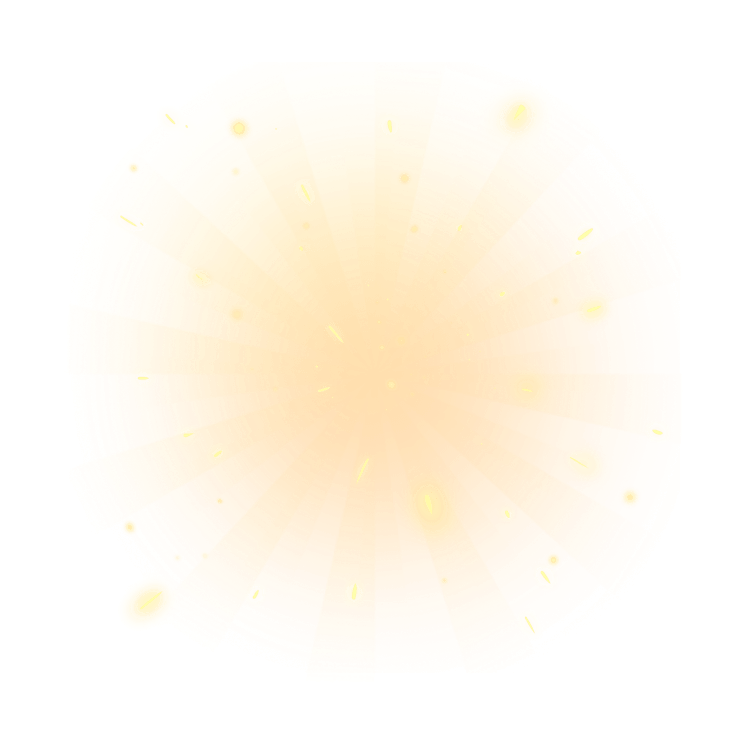
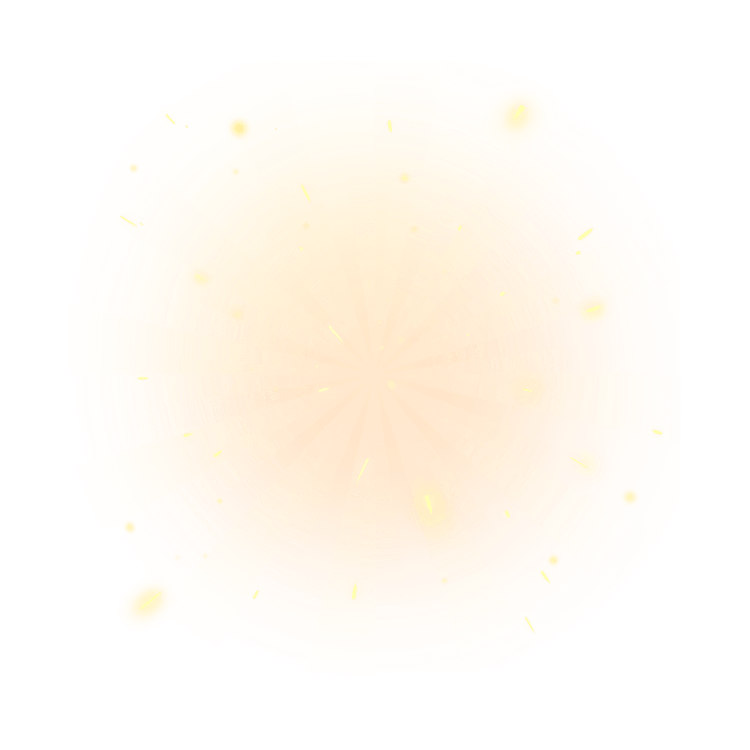
no message

Changed region(s): [[0.368, 0.368, 0.644, 0.6133], [0.46, 0.6133, 0.4907, 0.644]]

diff --git a/src/pages/product/dongle.vue b/src/pages/product/dongle.vue
@@ -183,8 +183,8 @@
         </div>
         <div class="recordBtn" @click="getRewardHistory"></div>
         <!-- 过场动画 , { opacity: !cartoonShow } -->
-        <u-popup :show="inAdvance" :overlay="cartoonShow" :safeAreaInsetBottom="false" bgColor="transparent">
-            <div v-if="inAdvance" :class="['cartoon_con',,((isRun && spList[WinnInx].levelIndex == 28 ) ) && percentage > 90?'big':'']">
+        <u-popup mode="center" :show="inAdvance" :overlay="cartoonShow" :safeAreaInsetBottom="false" bgColor="transparent">
+            <div v-if="inAdvance" :class="['cartoon_con',( spList.length>0 && (isRun && spList[WinnInx].levelIndex == 28 ) ) && percentage > 90?'big':'']">
                 <div class="svga_it">
                     <c-svga ref="cSvgaRef" :src="cartoonsrc" :loops="1" :autoPlay="false" :isOnChange="true"
                         @finished="onFinished" @percentage="onPercentage" @loaded="onLoaded" width="100%"
@@ -202,7 +202,7 @@
                     </div>
                   
                 </div> -->
-              <view v-if="(percentage > 90 && isRun && spList[WinnInx].levelIndex == 28 ) " class="gx"></view>
+              <!-- <view v-if="(percentage > 90 && isRun && spList[WinnInx].levelIndex == 28 ) " class="gx"></view>
                 <view  class="awards_box" v-if="percentage > 90 && isRun">
                    <view  v-if="(spList[WinnInx].levelIndex == 28) "  class="guang"></view>
                     <view v-if="(spList[WinnInx].levelIndex == 28) " class="title">
@@ -228,7 +228,6 @@
                   <view class="c_btn flex_r flex_jse flex_ac" v-if="percentage > 95">
                     <view class="c_btn_item" @click="toDetails" v-if="WinnNum > 0"></view>
                     <view class="c_btn_item cor9" @click="next">
-                        <!-- <span>继续</span> -->
                         <view class="r_num flex_r" v-if="WinnNum > 0">
                              <view>
                                 <img src="https://img.shinemang.com/gachaStatic/newNdj/qiu.png" class="ico1" />
@@ -238,7 +237,7 @@
                     </view>
                 </view>
                  <view class="msg" v-if="percentage > 95">{{ hint }}</view>
-                </view>
+                </view> -->
                 <!-- <div class="c_btn flex_r flex_jse flex_ac" v-if="percentage > 95">
                     <div class="c_btn_item" @click="toDetails" v-if="WinnNum > 0">
                         跳过动画
@@ -254,7 +253,7 @@
             </div>
         </u-popup>
         <!-- 炸弹 -->
-        <u-popup :show="showDh" :overlay="cartoonShowDh" :safeAreaInsetBottom="false" bgColor="transparent">
+        <u-popup mode="center" :show="showDh" :overlay="cartoonShowDh" :safeAreaInsetBottom="false" bgColor="transparent">
             <div v-if="showDh" :class="['cartoon_con']">
                 <div class="svga_it">
                     <c-svga ref="cSvgaRef" :src="cartoonsrc2" :loops="1" :autoPlay="false" :isOnChange="true"
@@ -381,9 +380,9 @@ export default {
             showDiscounts: false,
             shareType: 0,
             probabilityShow: [],
-            cartoonsrc: "https://img.shinemang.com/gachaStatic/static/img/cartoon/ddl.svga",
+            cartoonsrc: "https://img.shinemang.com/gachaStatic/svga/ddl.svga",
             newFilePath: "",
-            cartoonsrc2: "https://img.shinemang.com/gachaStatic/static/img/cartoon/bomb.svga",
+            cartoonsrc2: "https://img.shinemang.com/gachaStatic/svga/bomb.svga",
             newGifPath: "", //Gif动画资源地址
             showDh: false,
             cartoonShowDh: false,
@@ -456,9 +455,15 @@ this.shareTo=false
           this.cartoonShow = false
           this.inAdvance = false;
           this.percentage = 0;
+          this.spList = [];
           this.Winning = [];
           this.WinnInx = 0;
-          this.isRun = true
+          this.isRun = true;
+          this.showDh =false;
+          this.entrance = false
+          this.gachaBombRecord={}
+          
+          
          
         },
         onClickResult(){
@@ -636,22 +641,23 @@ this.shareTo=false
             } else {
                 a = this.verdictBig(showAnim ? this.Winning : [this.Winning[0]]) ? 2 : 1;
             }
+
+            console.log(this.spList.length,showAnim,'阿是两节课弗利萨记录')
             if (!this.spList.length && showAnim) {
 
                 uni.hideLoading();
-                this.inAdvance = false
-             
-                                
                this.$refs.result.open(this.Winning, true, this.gachaId, this.boxindex)
                 // uni.$u.route({
                 //     type: "redirect",
                 //     url: "/pages/product/rewardResultDetails",
                 // });
             } else {
-                this.sound = a
+                this.sound = 'https://img.shinemang.com/gachaStatic/svga/ddl.wav'
+             
                 this.showDh = false
                 this.cartoonShowDh = false;
-                this.inAdvance = true;
+                  this.inAdvance = true;
+               playDede(0,this.sound);
                 setTimeout(() => {
                     this.cartoonShow = true;
                     uni.hideLoading();
@@ -806,7 +812,7 @@ this.shareTo=false
             }
             // console.log(va, "动画加载完成，播放时回调2");
             if (this.percentage > 80 && this.percentage < 86) {
-                playDede(this.sound);
+              
             }
         },
         onPercentage1(va) {
@@ -817,9 +823,10 @@ this.shareTo=false
                     uni.vibrateLong();
                 }
             });
-            playDede(0, 'https://img.shinemang.com/gachaStatic/static/media/bomb.wav')
+            playDede(0, 'https://img.shinemang.com/gachaStatic/svga/bomb.wav')
         },
         onFinished() {
+             this.toDetails();
             // console.log("动画停止播放时回调");
         },
         onFinished1() {
@@ -837,7 +844,7 @@ this.shareTo=false
                 if (this.WinnInx < this.spList.length && this.spList.length > 0) {
                     let a = this.verdictBig([this.spList[this.WinnInx]]) ? 2 : 1;
                     if(a == 2){
-                     playDede(0,'https://img.shinemang.com/gachaStatic/newNdj/ndj_b1.wav');
+                    //  playDede(0,'https://img.shinemang.com/gachaStatic/newNdj/ndj_b1.wav');
                     }
                 }
                 this.isRun = true;

diff --git a/src/pages/product/chaowanshang.vue b/src/pages/product/chaowanshang.vue
@@ -137,7 +137,7 @@
              </view>
                 <scroll-view style="height: 780rpx;" scroll-y>
                     <div class="lotteryRaffle">
-                            <div v-if="newRecordList" class="r_item" >
+                            <div v-if="newRecordList && newRecordList.records && newRecordList.records.length !== 0" class="r_item" >
                              <!-- v-for="(array, key) in recordList" -->
                                 <!-- <div  class="lr_tit flex_r flex_ac flex_jb" :class="['badge' + array.name]"> -->
                                     <!-- <img :src="`https://img.shinemang.com/gachaStatic/static/img/chaowanshang/duoyou_${array.name}.png`"
@@ -149,7 +149,7 @@
                                     </div> -->
                                 <!-- </div> -->
                                 <div  :class="['lr_con', { row1: false }]">
-                                    <div v-if="newRecordList && newRecordList.records && newRecordList.records.length !== 0">
+                                    <div>
                                         <div :style="{
                                 backgroundImage: `url(https://img.shinemang.com/gachaStatic/k_${newRecordList.name}.png)`,
                             }"  class="lr_i flex_r flex_ac flex_jb"
@@ -181,11 +181,11 @@
                                         </div>
                                     </div>
 
-                                    <div v-else class="nullBox">
-                                        暂无中赏记录~
-                                    </div>
+                       
                                 </div>
                             </div>
+                            <u-empty v-else text="暂无中赏记录~" icon="https://img.shinemang.com/gachaStatic/static/img/home/empty.png"
+                    :marginTop="50" />
                   </div>
                </scroll-view>
                         </div>
@@ -1790,6 +1790,7 @@ margin-right: 16rpx;
 
         .nullBox {
             height: 150rpx;
+           
             font-weight: 500;
             font-size: 12px;
             color: #E9BCBD;

diff --git a/src/pages/product/niudan.vue b/src/pages/product/niudan.vue
@@ -188,15 +188,15 @@
         </view>
         <!-- 过场动画 -->
         <u-popup :show="inAdvance" :overlay="cartoonShow" :safeAreaInsetBottom="false" bgColor="transparent">
-            <view :class="['cartoon_con', { opacity: !cartoonShow },((isRun && spList[WinnInx].levelIndex == 28 ) ) && percentage > 95?'big':'']" v-if="inAdvance">
+            <view :class="['cartoon_con', { opacity: !cartoonShow },((isRun && spList.length>0 && spList[WinnInx].levelIndex == 28 ) ) && percentage > 95?'big':'']" v-if="inAdvance">
                 <view class="svga_it">
                     <c-svga ref="cSvgaRef" :src="cartoonsrc" :loops="1" :autoPlay="false" :isOnChange="true"
                         @finished="onFinished" @percentage="onPercentage" @loaded="onLoaded" width="100%"
                         height="100%" />
                 </view>
 
-                <view v-if="(percentage > 95 && isRun && spList[WinnInx].levelIndex == 28 ) " class="gx"></view>
-                <view  class="awards_box" v-if="percentage > 95 && isRun">
+                <view v-if="(percentage > 95 && isRun && spList.length>0 && spList[WinnInx].levelIndex == 28 ) " class="gx"></view>
+                <view  class="awards_box" v-if="percentage > 95 && spList.length>0 && isRun">
                    <view  v-if="(spList[WinnInx].levelIndex == 28) "  class="guang"></view>
                     <view v-if="(spList[WinnInx].levelIndex == 28) " class="title">
                        {{spList[WinnInx].levelName == 'Lucky' ? (spList[WinnInx].levelName + spList[WinnInx].luckyNo +'赏'):(spList[WinnInx].levelName+'赏')}}
@@ -691,7 +691,7 @@ export default {
                 soundType = 1;
             }
 
-          
+          console.log(this.spList,'spList')
             this.show = false;
             if (!this.spList.length && showAnim ) {
                 // 开启动画且无大赏 → 直接跳转到结果详情页

diff --git a/src/pages/product/modules/resultDetail.vue b/src/pages/product/modules/resultDetail.vue
@@ -1,5 +1,5 @@
 <template>
-    <u-popup :show="show" :safeAreaInsetBottom="false" bgColor="transparent" :overlayOpacity="0.8">
+    <u-popup :show="show" mode="center" :safeAreaInsetBottom="false" bgColor="transparent" :overlayOpacity="0.8">
         <!-- <view class="dynamicEffect" v-show="dynamicEffectShow">
             <view v-for="(img, index) in imgUrlList" :key="index" v-show="styleStep == index + 1" @click="onDy(index)"
                 :style="{ backgroundImage: `url(${img.localImageUrl || img.imageUrl})` }" :class="img.class"></view>
@@ -653,7 +653,7 @@ export default {
         left: 0;
         // transform: translate(-50%,-50%);
         &.animation{
-          animation: infinityScroll 2s linear infinite;
+          animation: infinityScroll 10s linear infinite;
 
         }
         }
@@ -826,8 +826,8 @@ export default {
         background-size: 100% 100%;
         left: 0;
         top: calc((100vh - 750rpx)/2);
-        background-attachment: fixed;
-        animation: infinityScroll 2s linear infinite;
+        // background-attachment: fixed;
+        animation: infinityScroll 10s linear infinite;
     }
      @keyframes infinityScroll {
               from {

diff --git a/src/pages/product/modules/duoyou.vue b/src/pages/product/modules/duoyou.vue
@@ -677,7 +677,7 @@ export default {
         left: 0;
         // transform: translate(-50%,-50%);
         &.animation{
-          animation: infinityScroll 2s linear infinite;
+          animation: infinityScroll 10s linear infinite;
 
         }
         }
@@ -830,8 +830,8 @@ export default {
         background-size: 100% 100%;
         left: 0;
         top: calc((100vh - 750rpx)/2);
-        background-attachment: fixed;
-        animation: infinityScroll 2s linear infinite;
+        // background-attachment: fixed;
+        animation: infinityScroll 10s linear infinite;
     }
      @keyframes infinityScroll {
               from {
